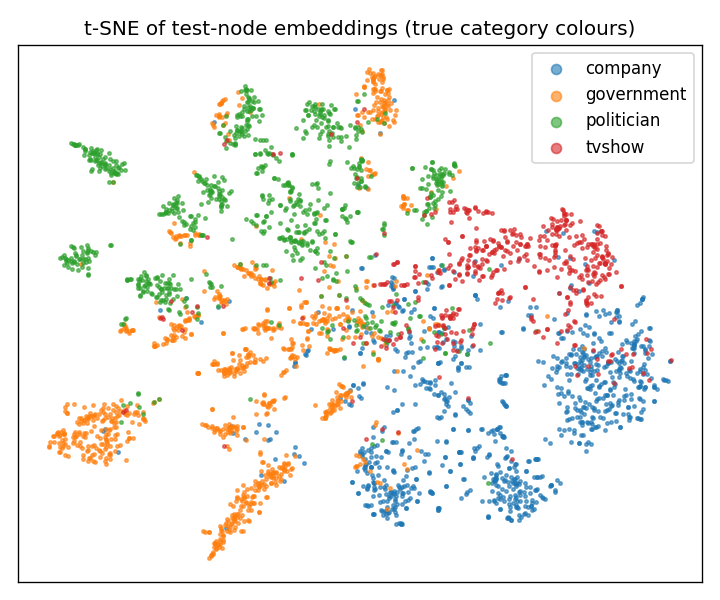
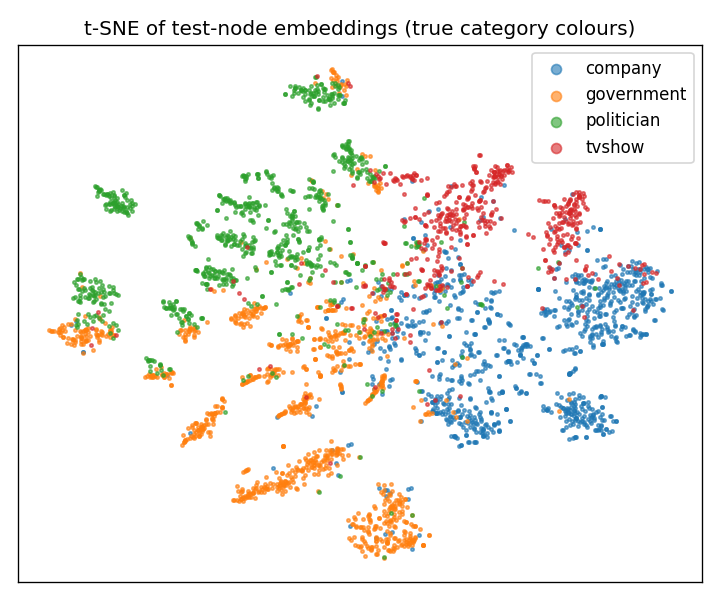
Re-run experiments with seed 624 and update README results
Retrained MLP and GCN, regenerated all figures and JSON summaries, and
updated every number, the failure-case autopsy and the recommendation in
the README to match the new run.

Changed region(s): [[0.0611, 0.12, 0.9472, 0.93]]

diff --git a/recognition/GCN_FacebookPagePage_s4922462/README.md b/recognition/GCN_FacebookPagePage_s4922462/README.md
@@ -114,7 +114,7 @@ pip install -r requirements.txt
 No PyTorch Geometric is needed: the GCN layer and sparse adjacency are written in plain PyTorch, and the
 dataset is downloaded directly as `facebook.npz`. A CUDA GPU is used automatically if available.
 
-**Reproducibility.** The data split and weight initialisation are seeded (`--seed 42`). Re-running on the
+**Reproducibility.** The data split and weight initialisation are seeded (`--seed 624`). Re-running on the
 same machine reproduces the numbers below; on a different CPU/GPU, sparse matrix products can differ in the last
 floating-point digits, so expect results within about ±0.5% accuracy.
 
@@ -161,8 +161,8 @@ only. Adam (lr 0.01, weight decay 5e-4), dropout 0.5, hidden size 64, up to 500 
 
 Neither model overfits: train and validation curves stay close together. (Training loss sits above validation
 loss because it is measured with dropout active.) The MLP levels off at about 0.75 accuracy after 20–30 epochs
-and early stopping picks epoch 55: the page features alone cannot separate the categories any further, so the
-limit is information, not training time. The GCN climbs to about 0.93 and keeps improving slowly until epoch 236.
+and early stopping picks epoch 90: the page features alone cannot separate the categories any further, so the
+limit is information, not training time. The GCN climbs to about 0.93 and keeps improving slowly until epoch 159.
 
 ## Results
 
@@ -170,21 +170,21 @@ All numbers are on the same 3,371 held-out test pages.
 
 | Metric | MLP (baseline) | GCN |
 |---|---|---|
-| Accuracy | 0.750 | **0.927** |
-| Macro-F1 | 0.729 | **0.923** |
-| AUROC (one-vs-rest, macro) | 0.929 | **0.987** |
+| Accuracy | 0.745 | **0.928** |
+| Macro-F1 | 0.717 | **0.923** |
+| AUROC (one-vs-rest, macro) | 0.926 | **0.987** |
 
 Per-class results:
 
 | Class (test pages) | MLP precision | MLP recall | MLP F1 | GCN precision | GCN recall | GCN F1 |
 |---|---|---|---|---|---|---|
-| company (975) | 0.839 | 0.793 | 0.815 | 0.937 | 0.917 | 0.927 |
-| government (1,032) | 0.660 | 0.872 | 0.751 | 0.924 | 0.940 | 0.932 |
-| politician (865) | 0.787 | 0.709 | 0.746 | 0.933 | 0.949 | 0.941 |
-| tvshow (499) | 0.792 | 0.487 | 0.603 | 0.901 | 0.880 | 0.890 |
+| company (975) | 0.820 | 0.799 | 0.809 | 0.931 | 0.931 | 0.931 |
+| government (1,032) | 0.649 | 0.891 | 0.751 | 0.915 | 0.953 | 0.934 |
+| politician (865) | 0.809 | 0.689 | 0.744 | 0.945 | 0.929 | 0.937 |
+| tvshow (499) | 0.808 | 0.431 | 0.562 | 0.917 | 0.864 | 0.890 |
 
-The largest gain is on **TV shows**, the smallest class: the MLP finds fewer than half of them (recall 0.487),
-the GCN finds 88%. The MLP also over-predicts government (precision 0.660), using it as a default for unclear
+The largest gain is on **TV shows**, the smallest class: the MLP finds fewer than half of them (recall 0.431),
+the GCN finds 86%. The MLP also over-predicts government (precision 0.649), using it as a default for unclear
 pages.
 
 **Embedding plot.** The t-SNE at the top of this README shows the GCN's 64-dimensional hidden representation of
@@ -200,12 +200,12 @@ also touch, which matches the most confident error below.
 | | MLP | GCN |
 |---|---|---|
 | Parameters | 8,516 | 8,516 |
-| Best epoch / training time | 55 / 1.5 s | 236 / 10.8 s |
-| Inference, whole graph (22,470 pages) | 1.6 ms | 10.4 ms |
+| Best epoch / training time | 90 / 1.6 s | 159 / 8.2 s |
+| Inference, whole graph (22,470 pages) | 0.6 ms | 9.2 ms |
 | Peak GPU VRAM | n/a (CPU) | n/a (CPU) |
 
-The GCN costs about 6× the inference time of the MLP because of the sparse product with `Â`, but both are far
-below any practical limit: classifying every page in the network takes about 10 ms.
+The GCN costs roughly 15× the inference time of the MLP because of the sparse product with `Â`, but both are far
+below any practical limit: classifying every page in the network takes under 10 ms.
 
 ## Investigation of the Open Research Dilemma
 
@@ -217,26 +217,27 @@ negative log-likelihood; `T < 1` sharpens the probabilities, `T > 1` softens the
 
 | | MLP | GCN |
 |---|---|---|
-| Fitted temperature T | 0.60 | 0.83 |
-| ECE before scaling | 0.115 | 0.043 |
-| ECE after scaling | 0.031 | 0.026 |
+| Fitted temperature T | 0.60 | 0.79 |
+| ECE before scaling | 0.105 | 0.047 |
+| ECE after scaling | 0.026 | 0.027 |
 
 ![Reliability diagrams](outputs/reliability.png)
 
 Both models are **under-confident on average**, not over-confident: the blue curves lie *above* the diagonal
-(e.g. MLP predictions with 0.6 confidence are right 75–86% of the time) and both fitted temperatures are below 1.
+(e.g. MLP predictions with about 0.7 confidence are right 89% of the time, GCN predictions with about 0.63
+confidence are right 85% of the time) and both fitted temperatures are below 1.
 Dropout 0.5 and weight decay make the softmax outputs soft. Temperature scaling fixes this well for both.
 
 But the average hides a problem. Counting test pages that are **wrong with confidence ≥ 0.9**:
 
 | | Errors | Errors with confidence ≥ 0.9 | Mean confidence when right | Mean confidence when wrong |
 |---|---|---|---|---|
-| MLP | 842 | 2 | 0.70 | 0.45 |
-| GCN | 247 | **42** | 0.91 | 0.67 |
+| MLP | 861 | 1 | 0.70 | 0.47 |
+| GCN | 244 | **39** | 0.90 | 0.66 |
 
-The GCN makes 3.4× fewer errors, but **17% of its errors are confidently wrong**, against 0.2% for the MLP. The
+The GCN makes 3.5× fewer errors, but **16% of its errors are confidently wrong**, against 0.1% for the MLP. The
 MLP's errors are easy to catch because it is unsure about them; a group of the GCN's errors look exactly like its
-correct predictions. Temperature scaling (T = 0.83) makes these worse, because it sharpens every prediction.
+correct predictions. Temperature scaling (T = 0.79) makes these worse, because it sharpens every prediction.
 
 ### 2. Where does the GCN fail? (failure-case autopsy)
 
@@ -244,30 +245,33 @@ Test accuracy split by **local homophily**, the share of a page's neighbours tha
 
 | Share of same-class neighbours | Test pages | MLP accuracy | GCN accuracy |
 |---|---|---|---|
-| < 0.5 (mostly other-class neighbours) | 190 | 0.484 | **0.400** |
-| 0.5 – 0.8 | 491 | 0.684 | 0.859 |
-| ≥ 0.8 | 2,690 | 0.781 | 0.976 |
+| < 0.5 (mostly other-class neighbours) | 177 | 0.463 | **0.373** |
+| 0.5 – 0.8 | 477 | 0.658 | 0.887 |
+| ≥ 0.8 | 2,717 | 0.778 | 0.971 |
 
 The GCN beats the MLP everywhere **except** on heterophilous pages, where it is worse than the baseline. The
 five most confident GCN errors (`python predict.py --model gcn`) all fit this pattern:
 
 | Page | True | Predicted | Confidence | Degree | Neighbour labels | Diagnosis |
 |---|---|---|---|---|---|---|
-| Senate of Canada | government | politician | 1.00 | 266 | 100% politician | A government body liked only by senators: averaging 266 politician neighbours overwhelms its own features |
-| Comedy Central UK | company | tvshow | 1.00 | 16 | 94% tvshow | A broadcaster's page is labelled company but lives among the shows it airs |
-| Fractal | tvshow | company | 1.00 | 1 | 100% company | A single neighbour: the whole prediction is copied from one company page |
-| ITV Football | company | tvshow | 1.00 | 8 | 100% tvshow | Sports-broadcast brand page; arguably an ambiguous label, linked only to TV shows |
+| European Committee of the Regions | government | politician | 1.00 | 157 | 77% politician | An EU body whose page is liked mainly by the politicians who sit on it |
+| Senado de la República | government | politician | 1.00 | 35 | 91% politician | A senate liked by its own senators: averaging their pages overwhelms its own features |
+| Cámara de Diputados – H. Congreso | government | politician | 1.00 | 48 | 83% politician | Same pattern for a chamber of deputies |
 | DIRECTV Puerto Rico | company | tvshow | 1.00 | 69 | 81% tvshow | Pay-TV provider surrounded by its channels' pages |
+| ITV Football | company | tvshow | 1.00 | 8 | 100% tvshow | Sports-broadcast brand page linked only to TV shows; arguably an ambiguous label |
 
 **Root cause:** the GCN assumes neighbours share labels. When a page's neighbourhood is dominated by another
 class, message passing pushes it confidently into that class, and the softmax has no way to say "my neighbours
-disagree with my own features". Three of five failures are the **company vs TV show** boundary (media
-companies), which is also where the t-SNE regions overlap. Low degree adds risk: pages with 1–2 links have GCN
-accuracy 0.883, against 0.957 for pages with 10+ links, because one neighbour decides everything.
+disagree with my own features". The failures fall into two groups: **legislatures** (government pages liked
+mostly by their own members, who are politicians) and **media companies** (company pages surrounded by the TV
+shows they broadcast). These are the two places where the t-SNE regions touch. Low degree adds risk: pages with
+1–2 links have GCN accuracy 0.878, against 0.954 for pages with 10+ links, because a few neighbours decide
+everything.
 
-For comparison, the MLP's most confident errors are different in kind: *Navy Federal Credit Union* (company →
-government, a name that sounds governmental) and *Senator Thomas V. Mike Miller Jr.* (politician → government):
-feature-level ambiguity, with confidence ≤ 0.95.
+For comparison, the MLP's most confident errors are different in kind: *Nextdoor* (0.94), *Extreme Tornado
+Tours* and *OLD BAY® Seasoning* are companies predicted as government. These are feature-level confusions: the
+MLP uses government as a default for pages whose descriptions do not look clearly commercial, and its confidence
+on them stays at or below 0.94.
 
 ### 3. Reject option: automate confident pages, refer the rest
 
@@ -277,32 +281,32 @@ then applied unchanged to the test set.
 
 | Test set | MLP | GCN |
 |---|---|---|
-| Threshold (calibrated confidence) | 0.816 | 0.536 |
-| Coverage (share automated) | 45.8% | **95.5%** |
-| Accuracy on automated pages | 0.955 | 0.942 |
-| Accuracy on referred pages | 0.578 | 0.605 |
+| Threshold (calibrated confidence) | 0.795 | 0.557 |
+| Coverage (share automated) | 48.3% | **94.7%** |
+| Accuracy on automated pages | 0.946 | 0.946 |
+| Accuracy on referred pages | 0.557 | 0.593 |
 
 ![Accuracy of automated predictions vs coverage](outputs/risk_coverage.png)
 
-To reach about 95% accuracy the MLP has to refer more than half of all pages to a human; the GCN refers fewer
-than 5%. The GCN's test accuracy on automated pages (0.942) is slightly below the 0.95 target set on validation,
-so the threshold should be set with a small safety margin (for the GCN, about 91% coverage reaches 0.95 on test,
-see the curve).
+To reach about 95% accuracy the MLP has to refer more than half of all pages to a human; the GCN refers about
+5%. For both models the test accuracy on automated pages (0.946) is slightly below the 0.95 target set on
+validation, so the threshold should be set with a small safety margin (for the GCN, 93.5% coverage still reaches
+0.95 on test, see the curve).
 
 ### 4. Recommendation to the project manager
 
 1. **Use the GCN, not the MLP.** At the same parameter count and about 10 ms per full-graph pass, it cuts the
-   human review workload from 54% of pages to about 5–9% at roughly 95% accuracy. The extra cost is negligible.
+   human review workload from 52% of pages to about 5–7% at roughly 95% accuracy. The extra cost is negligible.
 2. **Do not trust confidence alone.** The GCN's remaining errors are concentrated on pages whose neighbours
-   mostly belong to another class, and on these it is confidently wrong (42 errors at ≥ 0.9 confidence). A
+   mostly belong to another class, and on these it is confidently wrong (39 errors at ≥ 0.9 confidence). A
    confidence threshold cannot catch them.
 3. **Add a second, graph-aware rule:** also refer a page to a human if (a) fewer than half of its neighbours
    (using known labels, or predicted labels where unknown) are in the class predicted for the page, i.e. low
    local homophily; (b) it has fewer than 3 links; or (c) the GCN and the MLP disagree. These rules target the
    failure cases above and are cheap to compute. They are a proposal and have not been tested in this project.
-4. **Watch media companies.** The company / TV-show boundary is partly a labelling question (is a TV channel a
-   company?). Clarify the labelling guideline before deployment, since no model can learn a rule the labels do
-   not follow.
+4. **Watch legislatures and media companies.** Both boundaries are partly a labelling question (is a senate a
+   government body or a group of politicians? is a TV channel a company?). Clarify the labelling guideline
+   before deployment, since no model can learn a rule the labels do not follow.
 
 ## Usage
 
@@ -322,22 +326,23 @@ python predict.py --model gcn     # example predictions, confident errors, t-SNE
 Example output of `predict.py --model gcn`:
 
 ```text
-GCN test accuracy: 0.9267 on 3371 pages
+GCN test accuracy: 0.9276 on 3371 pages
 
 Example predictions:
-  [ok ] The Voice of China 中国好声音                 true=tvshow      pred=tvshow      conf=0.85
-  [ok ] Deputado Ademir Camilo                   true=politician  pred=politician  conf=0.97
-  [ok ] NASA Student Launch                      true=government  pred=government  conf=0.81
-  [ok ] Omoda                                    true=company     pred=company     conf=0.93
-  [ok ] Pat Toomey                               true=politician  pred=politician  conf=1.00
+  [ok ] Socialstyrelsen                          true=government  pred=government  conf=0.95
+  [ok ] 1st Armored Division Sustainment Brigade true=government  pred=government  conf=1.00
+  [ok ] Hydro Coco                               true=company     pred=company     conf=0.98
+  [ok ] Sunrun                                   true=company     pred=company     conf=0.87
+  [ok ] St. Cloud VA Health Care System          true=government  pred=government  conf=0.99
 
-Most confident errors (247 errors in total):
-  Senate of Canada - Sénat du Canada     true=government  pred=politician  conf=1.00 degree=266  neighbours: gove 0%, poli 100%
-  Comedy Central UK                      true=company     pred=tvshow      conf=1.00 degree=16   neighbours: comp 6%, tvsh 94%
+Most confident errors (244 errors in total):
+  European Committee of the Regions      true=government  pred=politician  conf=1.00 degree=157  neighbours: gove 23%, poli 77%
+  Senado de la República                 true=government  pred=politician  conf=1.00 degree=35   neighbours: gove 9%, poli 91%
 ```
 
-The same pages under the MLP: *The Voice of China* is predicted government (0.40) and *Omoda* government (0.34):
-both wrong, but with low confidence, so the reject option would refer them.
+The same pages under the MLP: *Socialstyrelsen* (the Swedish health agency) is predicted politician with 0.81
+confidence, and the Korean TV show *식샤를합시다* is predicted government with 0.41. Both are wrong; the second
+has low confidence, so the reject option would refer it, but the first is confident enough to be automated.
 
 ### Files
 
